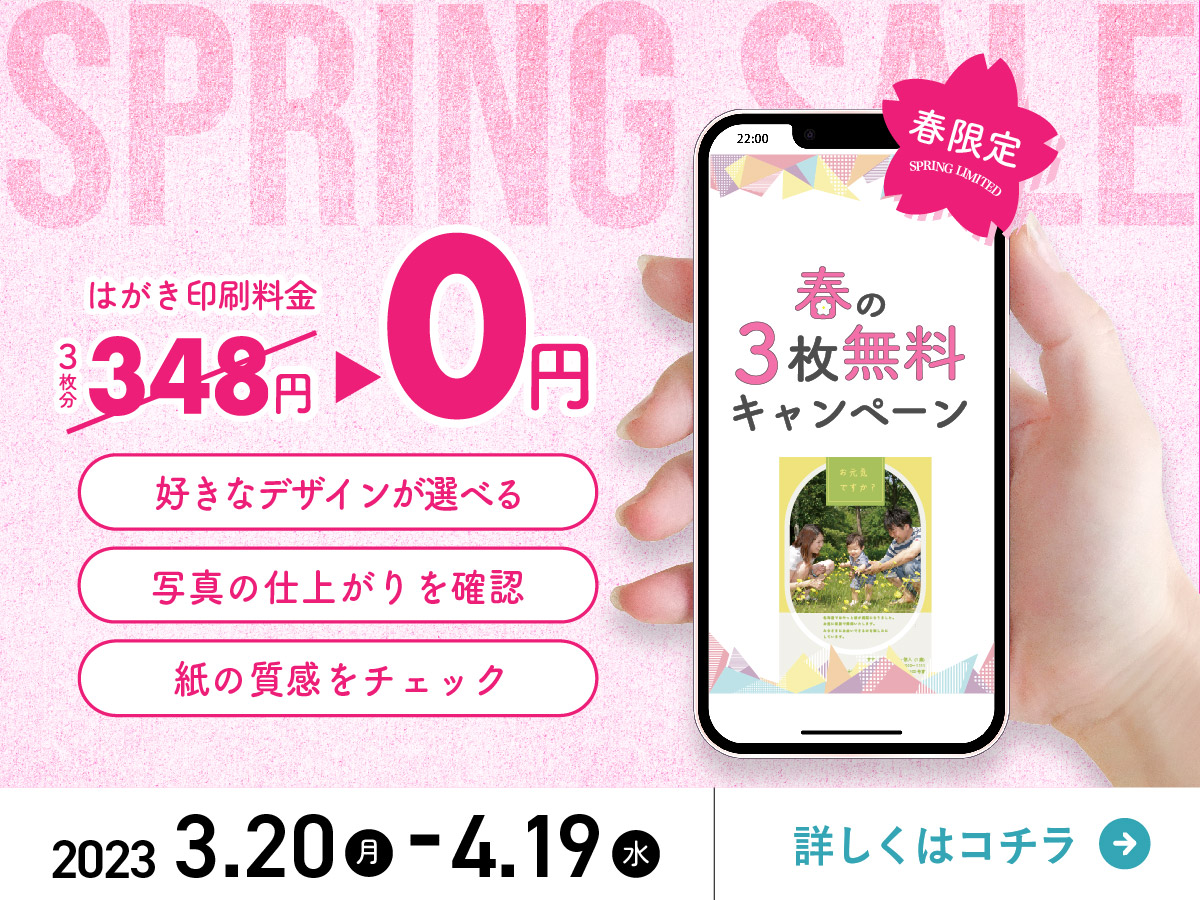
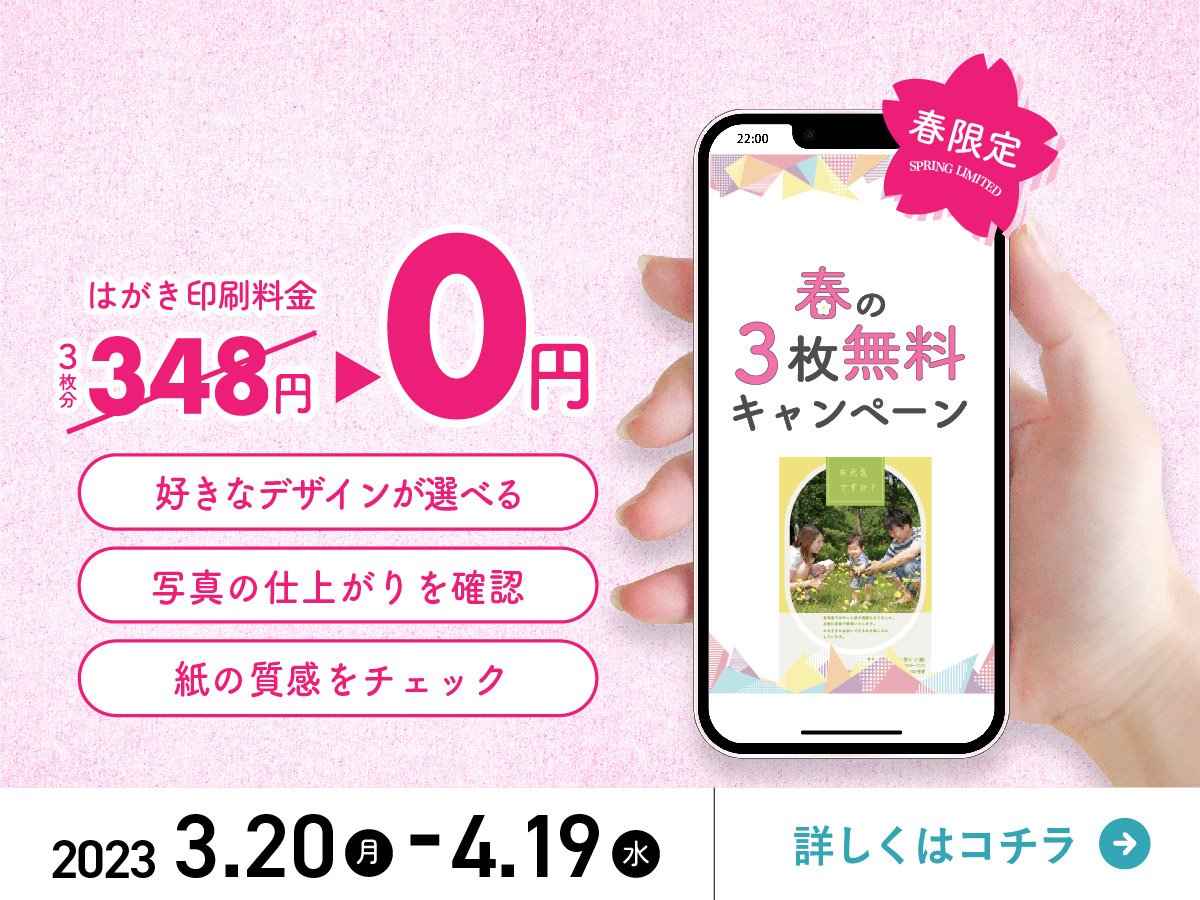
公開

Changed region(s): [[0.0, 0.0, 0.5858, 0.2489], [0.8325, 0.0, 1.0, 0.2489], [0.6167, 0.0, 0.8633, 0.1244]]

diff --git a/works/spring.html b/works/spring.html
@@ -84,14 +84,15 @@
             </div>
         </div>
         <div class="text_wrap">
-            <div class="wrap_mock fade-Trigger"><img src="images/spring sale.jpg" alt="春のキャンペーン"></div>
+            <div class="wrap_mock fade-Trigger"><img src="images/springsale.jpg" alt="春のキャンペーン"></div>
             <h3>キャンペーンバナー</h3>
             <div class="text_top">
                 <div class="text_box"></div>
                 <p>制作のPOINT</p>
             </div>
             <div class="text_inner">
-                <p>春のキャンペーンバナーを作成しました。<br>春を感じられるデザインとお得さが伝わるようなデザインに仕上げました。
+                <p>春のキャンペーンバナーを作成しました。<br>春だけの特別なキャンペーンだと伝わるように、背景にインパクトのあるSPRING
+                    SALEを配置したり所々に桜のあしらいを取り入れています。<br>何がどれだけお得なのか？を一目見てわかるようなデザインを心がけて作成いたしました。
                 </p>
             </div>
         </div>

diff --git a/works/index.html b/works/index.html
@@ -75,8 +75,7 @@
                 </li>
                 <li class="fade-Trigger"><a href="./nenga_lp.html"><img src="images/nenga_lp.jpg" alt="年賀状_LP"></a>
                 </li>
-                <li class="fade-Trigger"><a href="./spring.html"><img src="images/spring300@2x-100.jpg"
-                            alt="春のキャンペーン"></a>
+                <li class="fade-Trigger"><a href="./spring.html"><img src="images/spring300.jpg" alt="春のキャンペーン"></a>
                 </li>
             </ul>
         </div>
